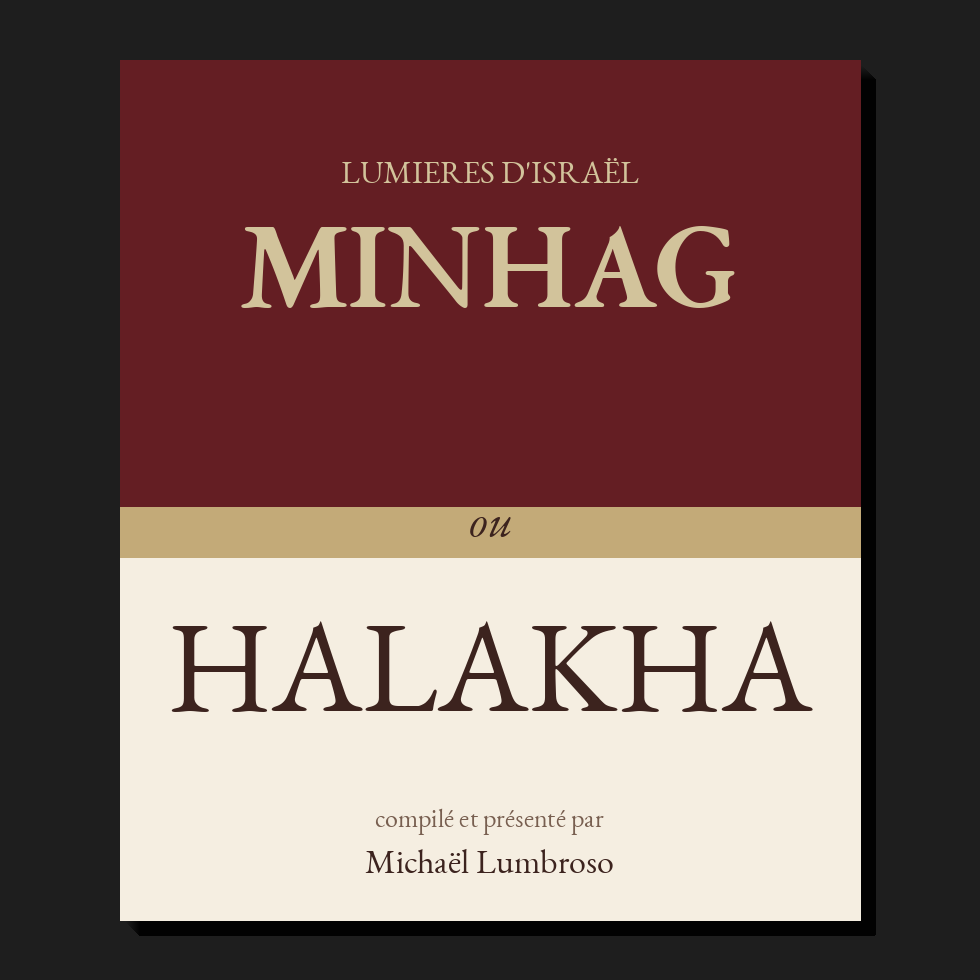
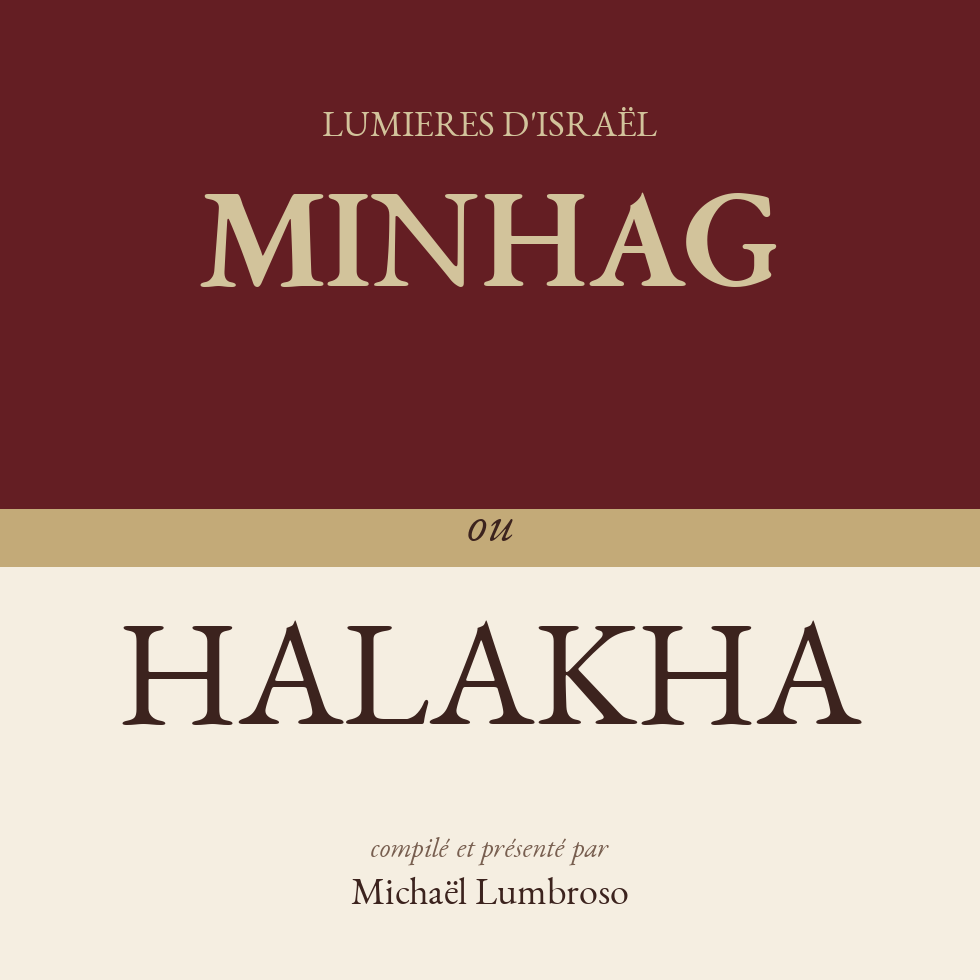
ajustements acte 2 image

diff --git a/index.html b/index.html
@@ -601,7 +601,7 @@
                         <div class="jeu-slide" data-jeu="moh" data-slide="1">
                     <div class="jeu-visual">
                         <div class="jeu-frame">
-                                    <img src="images/jeu2_3.png" alt="Minhag ou Halakha - Jeu pour distinguer loi religieuse et coutume" loading="lazy" style="width: 100%; height: 100%; object-fit: cover;">
+                                    <img src="images/jeu2_3.png" alt="Minhag ou Halakha - Jeu pour distinguer loi religieuse et coutume" loading="lazy">
             </div>
         </div>
                     <div class="jeu-info">

diff --git a/css/responsive.css b/css/responsive.css
@@ -504,11 +504,7 @@ img {
     }
     
     #acte-2 .jeu-frame img {
-        width: 100% !important;
-        height: 280px !important;
-        max-width: 100% !important;
         object-fit: cover !important;
-        object-position: center center !important;
     }
     
     #acte-2 .jeu-frame {
@@ -1123,3 +1119,4 @@ img {
 /* ============================================================
    FIN DU FICHIER
    ============================================================ */
+

diff --git a/css/main.css b/css/main.css
@@ -1878,11 +1878,7 @@ img {
 }
 
 #acte-2 .jeu-frame img {
-  width: 100% !important;
-  height: 280px !important;
   object-fit: cover !important;
-  object-position: center center !important;
-  display: block !important;
 }
 
 /* Info - Texte à droite ÉPURÉ */
